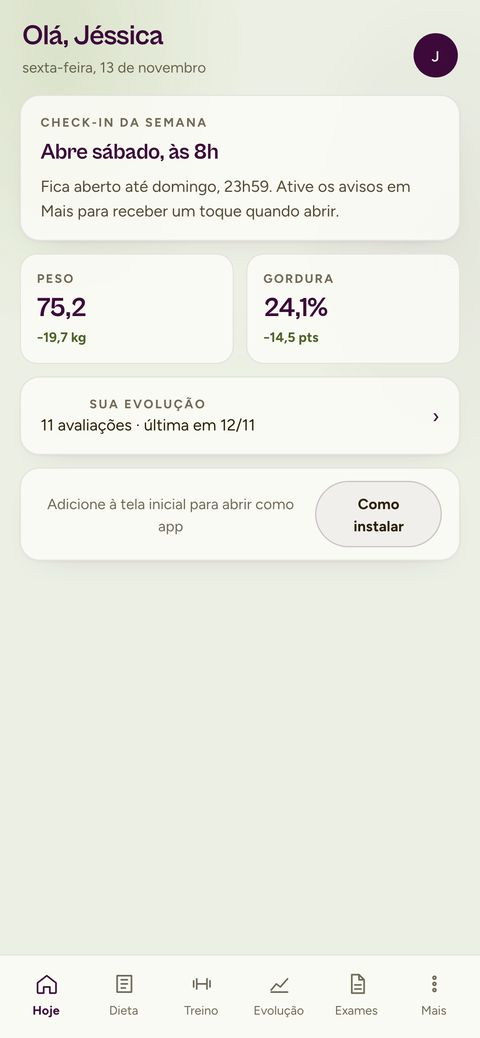
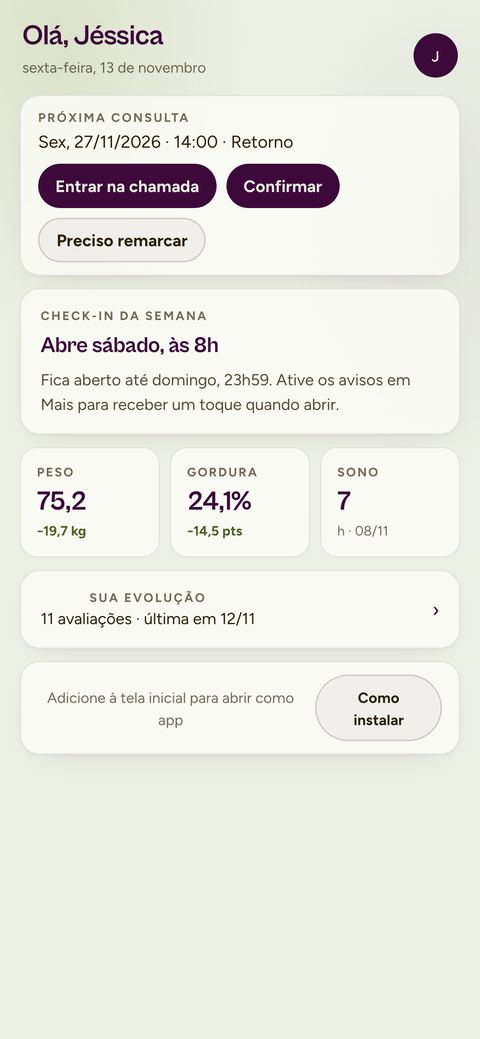
App da página ganha rolagem, cardio e dados de demonstração
A tela agora rola dentro do mockup: cada aba foi capturada inteira, sem
a barra de abas, e a barra entrou como camada fixa no rodapé do
aparelho, com uma versão por aba acesa. Rolar não troca de aba; só o
arraste horizontal troca.

Telas que antes apareciam vazias foram preenchidas com dados de
demonstração, autorizados pelo Ademir: consulta de retorno marcada no
Hoje, ficha de musculação A/B/C com semana 1 de 4, cardio com
orientação e registros, exames com sete marcadores (dois em atenção,
com a conduta escrita) e os hábitos das últimas quatro semanas. O
corpo — peso, medidas e fotos — continua sendo o real da paciente.

O seletor Musculação / Cardio e o de Corpo / Hábitos / Medidas / Fotos
são clicáveis.

diff --git a/blackfriday/index.html b/blackfriday/index.html
@@ -116,17 +116,23 @@
     .fone{width:222px;}
   }
 
-  /* APP NAVEGÁVEL dentro do mockup */
+  /* APP NAVEGÁVEL dentro do mockup: a tela rola e a barra de abas fica fixa */
   .app-palco{position:relative; line-height:0;}
-  .app-tela{display:block; width:100%; height:auto; position:absolute; inset:0; opacity:0;
-    transition:opacity .22s ease; pointer-events:none;}
-  .app-tela:first-of-type{position:relative;}
-  .app-tela.ativa{opacity:1;}
+  .app-janela{position:relative; aspect-ratio:480/1039; overflow-y:auto; overflow-x:hidden;
+    -webkit-overflow-scrolling:touch; scrollbar-width:none; background:#E5EADA;}
+  .app-janela::-webkit-scrollbar{display:none;}
+  .app-tela{display:none; width:100%; height:auto;}
+  .app-tela.ativa{display:block;}
+  .app-nav{position:absolute; left:0; right:0; bottom:0; height:6.83%; z-index:4;}
+  .app-barra{display:none; width:100%; height:100%; object-fit:cover;}
+  .app-barra.ativa{display:block;}
+  .app-nav .app-toque{top:0; height:100%;}
   .app-toque{position:absolute; appearance:none; background:none; border:none; padding:0; margin:0;
-    cursor:pointer; border-radius:10px; z-index:3; -webkit-tap-highlight-color:transparent;}
+    cursor:pointer; border-radius:10px; z-index:5; -webkit-tap-highlight-color:transparent;}
   .app-toque:focus-visible{outline:2px solid var(--gold); outline-offset:2px;}
-  .app-vista{display:none;}
-  .app-palco.na-evolucao .app-vista{display:block;}
+  .app-vista, .app-treino-sel{display:none;}
+  .app-palco[data-atual^="evolucao"] .app-vista{display:block;}
+  .app-palco[data-atual="treino"] .app-treino-sel, .app-palco[data-atual="cardio"] .app-treino-sel{display:block;}
   .app-dica{margin-top:16px; text-align:center; font-size:12.5px; color:var(--faint);}
   .app-dica b{color:var(--gold); font-weight:500;}
 
@@ -256,30 +262,43 @@
           <div class="fone-tela">
             <div class="fone-ilha"></div>
             <div class="fone-brilho"></div>
-<div class="app-palco" id="appDemo">
-            <img class="app-tela ativa" data-tela="hoje" src="telas/hoje.jpg" width="480" height="1038" alt="Tela Hoje do aplicativo" >
-            <img class="app-tela" data-tela="dieta" src="telas/dieta.jpg" width="480" height="1038" alt="Tela Dieta do aplicativo" loading="lazy">
-            <img class="app-tela" data-tela="treino" src="telas/treino.jpg" width="480" height="1038" alt="Tela Treino do aplicativo" loading="lazy">
-            <img class="app-tela" data-tela="evolucao-corpo" src="telas/evolucao-corpo.jpg" width="480" height="1038" alt="Tela Evolução do aplicativo" loading="lazy">
-            <img class="app-tela" data-tela="exames" src="telas/exames.jpg" width="480" height="1038" alt="Tela Exames do aplicativo" loading="lazy">
-            <img class="app-tela" data-tela="mais" src="telas/mais.jpg" width="480" height="1038" alt="Tela Mais do aplicativo" loading="lazy">
-            <img class="app-tela" data-tela="evolucao-habitos" src="telas/evolucao-habitos.jpg" width="480" height="1038" alt="Tela Hábitos do aplicativo" loading="lazy">
-            <img class="app-tela" data-tela="evolucao-medidas" src="telas/evolucao-medidas.jpg" width="480" height="1038" alt="Tela Medidas do aplicativo" loading="lazy">
-            <img class="app-tela" data-tela="evolucao-fotos" src="telas/evolucao-fotos.jpg" width="480" height="1038" alt="Tela Fotos do aplicativo" loading="lazy">
-            <button class="app-toque" data-ir="hoje" aria-label="Abrir Hoje" style="left:1.54%;top:93.13%;width:16.15%;height:5.57%"></button>
-            <button class="app-toque" data-ir="dieta" aria-label="Abrir Dieta" style="left:17.69%;top:93.13%;width:16.15%;height:5.57%"></button>
-            <button class="app-toque" data-ir="treino" aria-label="Abrir Treino" style="left:33.85%;top:93.13%;width:16.15%;height:5.57%"></button>
-            <button class="app-toque" data-ir="evolucao-corpo" aria-label="Abrir Evolução" style="left:50%;top:93.13%;width:16.15%;height:5.57%"></button>
-            <button class="app-toque" data-ir="exames" aria-label="Abrir Exames" style="left:66.15%;top:93.13%;width:16.15%;height:5.57%"></button>
-            <button class="app-toque" data-ir="mais" aria-label="Abrir Mais" style="left:82.31%;top:93.13%;width:16.15%;height:5.57%"></button>
-            <button class="app-toque app-vista" data-ir="evolucao-corpo" aria-label="Ver Corpo" style="left:5.13%;top:9.65%;width:22.05%;height:4.35%"></button>
-            <button class="app-toque app-vista" data-ir="evolucao-habitos" aria-label="Ver Hábitos" style="left:27.69%;top:9.65%;width:22.05%;height:4.35%"></button>
-            <button class="app-toque app-vista" data-ir="evolucao-medidas" aria-label="Ver Medidas" style="left:50.26%;top:9.65%;width:22.05%;height:4.35%"></button>
-            <button class="app-toque app-vista" data-ir="evolucao-fotos" aria-label="Ver Fotos" style="left:72.82%;top:9.65%;width:22.05%;height:4.35%"></button>
+<div class="app-palco" id="appDemo" data-atual="hoje">
+            <div class="app-janela">
+              <img class="app-tela ativa" data-tela="hoje" src="telas/hoje.jpg" alt="Tela Hoje do aplicativo">
+              <img class="app-tela" data-tela="dieta" src="telas/dieta.jpg" alt="Tela Dieta do aplicativo" loading="lazy">
+              <img class="app-tela" data-tela="treino" src="telas/treino.jpg" alt="Tela Treino do aplicativo" loading="lazy">
+              <img class="app-tela" data-tela="cardio" src="telas/cardio.jpg" alt="Tela Cardio do aplicativo" loading="lazy">
+              <img class="app-tela" data-tela="evolucao-corpo" src="telas/evolucao-corpo.jpg" alt="Tela Corpo do aplicativo" loading="lazy">
+              <img class="app-tela" data-tela="evolucao-habitos" src="telas/evolucao-habitos.jpg" alt="Tela Hábitos do aplicativo" loading="lazy">
+              <img class="app-tela" data-tela="evolucao-medidas" src="telas/evolucao-medidas.jpg" alt="Tela Medidas do aplicativo" loading="lazy">
+              <img class="app-tela" data-tela="evolucao-fotos" src="telas/evolucao-fotos.jpg" alt="Tela Fotos do aplicativo" loading="lazy">
+              <img class="app-tela" data-tela="exames" src="telas/exames.jpg" alt="Tela Exames do aplicativo" loading="lazy">
+              <img class="app-tela" data-tela="mais" src="telas/mais.jpg" alt="Tela Mais do aplicativo" loading="lazy">
+              <button class="app-toque app-vista" data-ir="evolucao-corpo" aria-label="Ver Corpo" style="left:5.13%;top:9.65%;width:22.05%;height:4.35%"></button>
+              <button class="app-toque app-vista" data-ir="evolucao-habitos" aria-label="Ver Hábitos" style="left:27.69%;top:9.65%;width:22.05%;height:4.35%"></button>
+              <button class="app-toque app-vista" data-ir="evolucao-medidas" aria-label="Ver Medidas" style="left:50.26%;top:9.65%;width:22.05%;height:4.35%"></button>
+              <button class="app-toque app-vista" data-ir="evolucao-fotos" aria-label="Ver Fotos" style="left:72.82%;top:9.65%;width:22.05%;height:4.35%"></button>
+              <button class="app-toque app-treino-sel" data-ir="treino" aria-label="Ver Musculação" style="left:5.13%;top:9.65%;width:44.1%;height:4.35%"></button>
+              <button class="app-toque app-treino-sel" data-ir="cardio" aria-label="Ver Cardio" style="left:49.230000000000004%;top:9.65%;width:44.1%;height:4.35%"></button>
+            </div>
+            <div class="app-nav">
+              <img class="app-barra ativa" data-nav="hoje" src="telas/nav-hoje.jpg" alt="" aria-hidden="true">
+              <img class="app-barra" data-nav="dieta" src="telas/nav-dieta.jpg" alt="" aria-hidden="true">
+              <img class="app-barra" data-nav="treino" src="telas/nav-treino.jpg" alt="" aria-hidden="true">
+              <img class="app-barra" data-nav="evolucao" src="telas/nav-evolucao.jpg" alt="" aria-hidden="true">
+              <img class="app-barra" data-nav="exames" src="telas/nav-exames.jpg" alt="" aria-hidden="true">
+              <img class="app-barra" data-nav="mais" src="telas/nav-mais.jpg" alt="" aria-hidden="true">
+              <button class="app-toque" data-ir="hoje" aria-label="Abrir Hoje" style="left:1.54%;width:16.15%"></button>
+              <button class="app-toque" data-ir="dieta" aria-label="Abrir Dieta" style="left:17.69%;width:16.15%"></button>
+              <button class="app-toque" data-ir="treino" aria-label="Abrir Treino" style="left:33.85%;width:16.15%"></button>
+              <button class="app-toque" data-ir="evolucao-corpo" aria-label="Abrir Evolução" style="left:50%;width:16.15%"></button>
+              <button class="app-toque" data-ir="exames" aria-label="Abrir Exames" style="left:66.15%;width:16.15%"></button>
+              <button class="app-toque" data-ir="mais" aria-label="Abrir Mais" style="left:82.31%;width:16.15%"></button>
+            </div>
           </div>
           </div>
         </div>
-        <div class="app-dica">toque nas abas do app · ou <b>arraste para o lado</b></div>
+        <div class="app-dica">toque nas abas · <b>role a tela</b> · arraste para o lado</div>
       </div>
       <div class="vitrine-texto">
         <h3>Navegue pelo aplicativo aqui mesmo</h3>
@@ -414,35 +433,34 @@
   (function(){
     var palco = document.getElementById('appDemo');
     if (!palco) return;
-    var telas = palco.querySelectorAll('.app-tela');
+    var janela = palco.querySelector('.app-janela');
+    var navDe = {"hoje": "hoje", "dieta": "dieta", "treino": "treino", "cardio": "treino", "exames": "exames", "mais": "mais", "evolucao-corpo": "evolucao", "evolucao-habitos": "evolucao", "evolucao-medidas": "evolucao", "evolucao-fotos": "evolucao"};
     var ordem = ['hoje','dieta','treino','evolucao-corpo','exames','mais'];
     function mostrar(chave){
       var achou = false;
-      telas.forEach(function(t){
-        var ativa = t.dataset.tela === chave;
-        t.classList.toggle('ativa', ativa);
-        if (ativa) achou = true;
+      palco.querySelectorAll('.app-tela').forEach(function(t){
+        var ativa = t.dataset.tela === chave; t.classList.toggle('ativa', ativa); if (ativa) achou = true;
       });
       if (!achou) return;
-      palco.classList.toggle('na-evolucao', chave.indexOf('evolucao') === 0);
+      var nav = navDe[chave] || 'hoje';
+      palco.querySelectorAll('.app-barra').forEach(function(b){ b.classList.toggle('ativa', b.dataset.nav === nav); });
       palco.dataset.atual = chave;
+      janela.scrollTop = 0;
     }
-    palco.dataset.atual = 'hoje';
     palco.querySelectorAll('.app-toque').forEach(function(b){
-      b.addEventListener('click', function(){ mostrar(b.dataset.ir); });
+      b.addEventListener('click', function(e){ e.preventDefault(); mostrar(b.dataset.ir); });
     });
-    // arraste lateral percorre as abas
-    var x0 = null;
-    palco.addEventListener('pointerdown', function(e){ x0 = e.clientX; });
+    var x0 = null, y0 = null;
+    palco.addEventListener('pointerdown', function(e){ x0 = e.clientX; y0 = e.clientY; });
     palco.addEventListener('pointerup', function(e){
       if (x0 === null) return;
-      var d = e.clientX - x0; x0 = null;
-      if (Math.abs(d) < 40) return;
+      var dx = e.clientX - x0, dy = e.clientY - y0; x0 = null;
+      if (Math.abs(dx) < 50 || Math.abs(dx) < Math.abs(dy)) return;  // rolar não troca de aba
       var atual = palco.dataset.atual || 'hoje';
-      var i = ordem.indexOf(atual.indexOf('evolucao') === 0 ? 'evolucao-corpo' : atual);
-      if (i < 0) i = 0;
-      var prox = ordem[Math.min(ordem.length - 1, Math.max(0, i + (d < 0 ? 1 : -1)))];
-      mostrar(prox);
+      if (atual.indexOf('evolucao') === 0) atual = 'evolucao-corpo';
+      if (atual === 'cardio') atual = 'treino';
+      var i = ordem.indexOf(atual); if (i < 0) i = 0;
+      mostrar(ordem[Math.min(ordem.length - 1, Math.max(0, i + (dx < 0 ? 1 : -1)))]);
     });
     palco.addEventListener('dragstart', function(e){ e.preventDefault(); });
   })();
